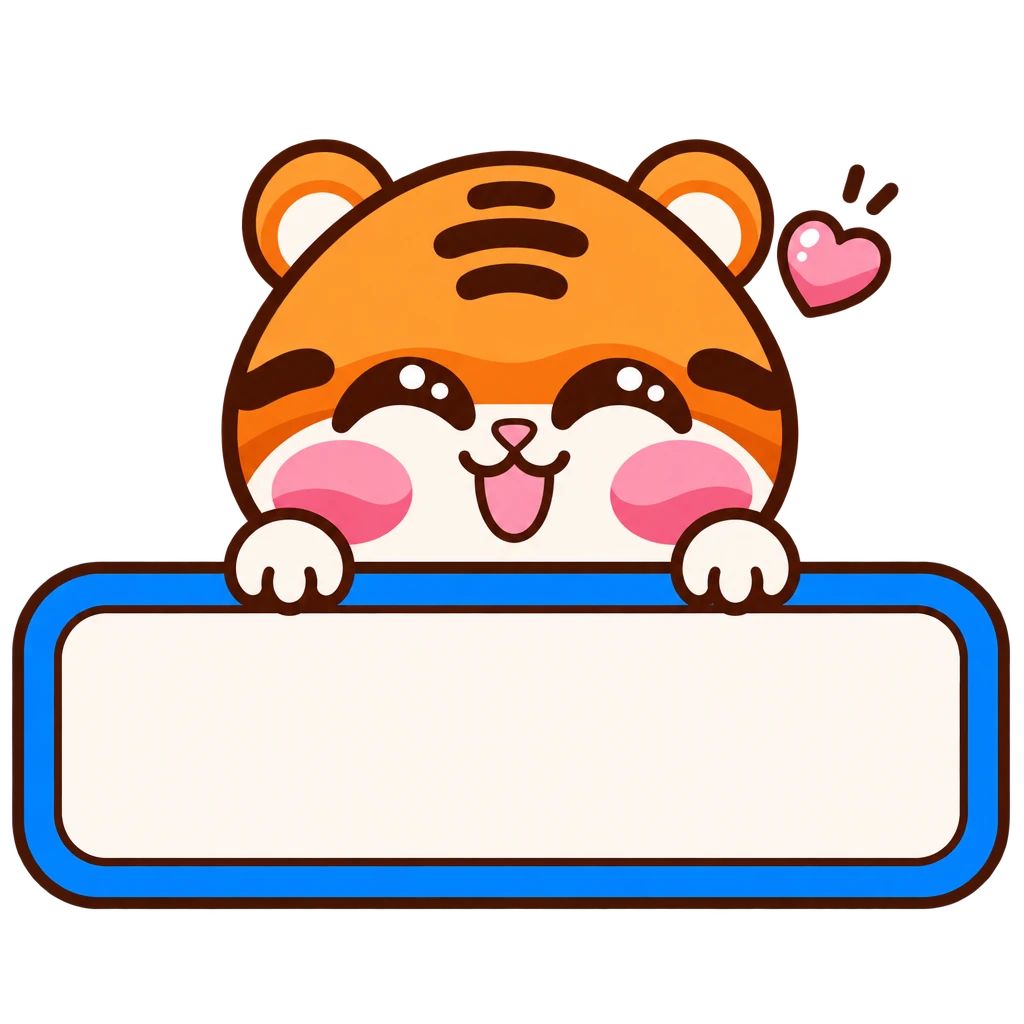
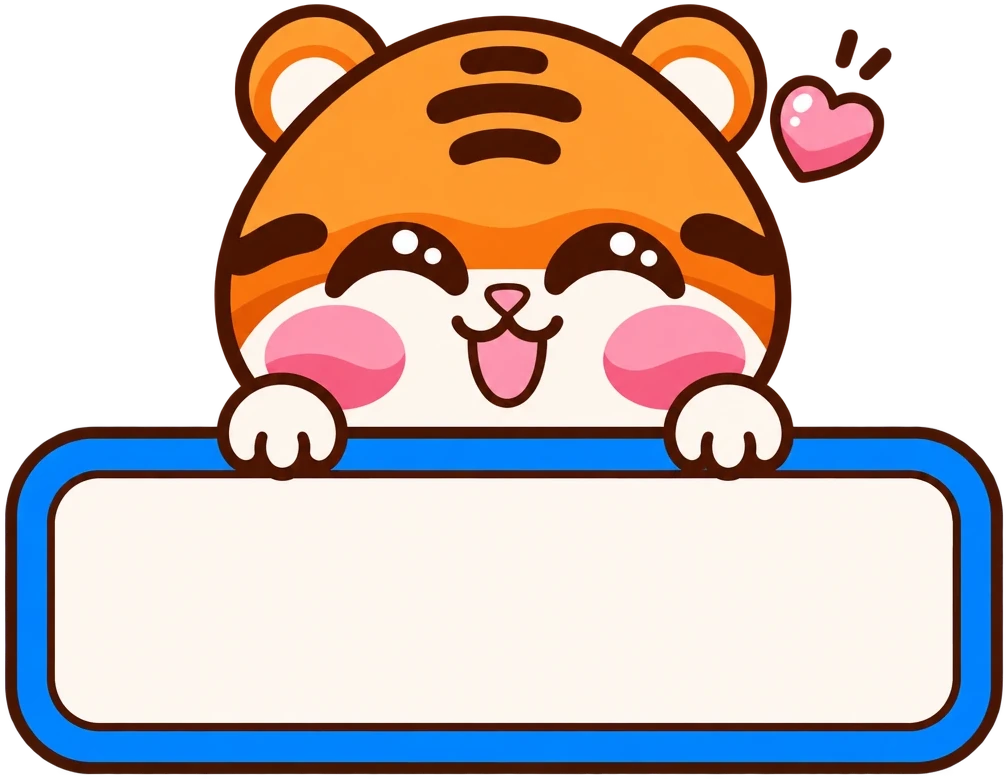
fix: 打赏插画裁去透明边，面板在矮窗口里不再出滚动条

diff --git a/src/views/tip/tip.css b/src/views/tip/tip.css
@@ -24,13 +24,13 @@
 .tip-body { margin: 0 0 calc(2 * var(--gap)); font-size: 13px; color: var(--text-dim); }
 .tip-art { position: relative; width: 640px; max-width: 100%; margin: 0 auto; }
 .tip-board { display: block; width: 100%; height: auto; user-select: none; }
-/* 看板空白区相对插画的位置（原图 x 62–958、y 614–856） */
+/* 看板空白区相对插画的位置（插画已裁去透明边，1008×779；空白区 x 55–951、y 479–721） */
 .tip-slot {
   position: absolute;
-  left: 6.05%;
-  top: 59.96%;
-  width: 87.5%;
-  height: 23.6%;
+  left: 5.46%;
+  top: 61.49%;
+  width: 88.99%;
+  height: 31.19%;
   display: flex;
 }
 .tip-code {
